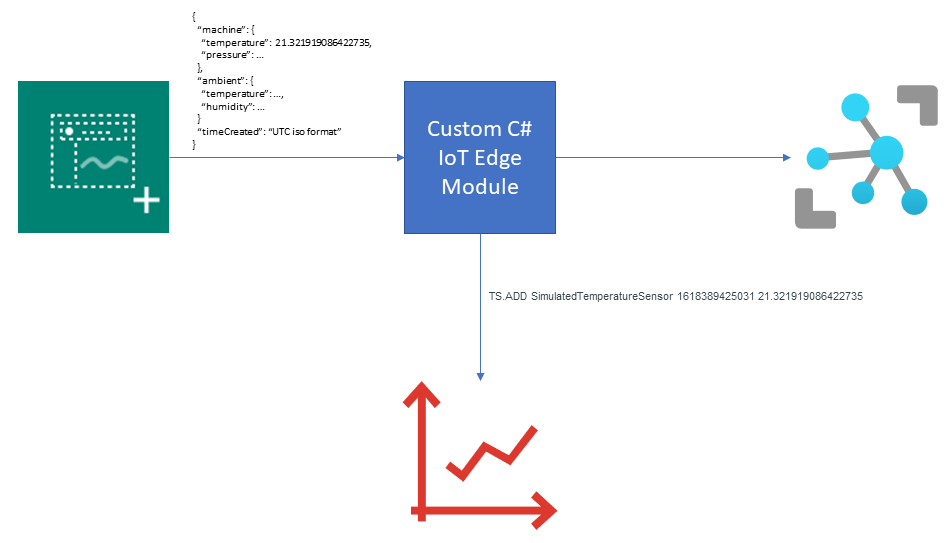
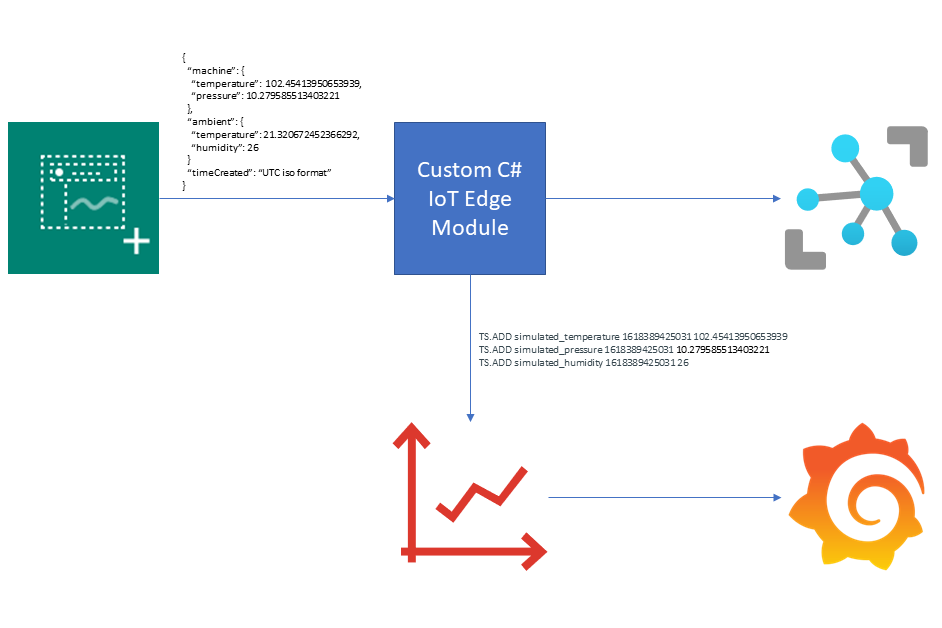
Add Grafana dashboards

Changed region(s): [[0.0, 0.0295, 0.9236, 0.7072], [0.4002, 0.6777, 0.9851, 0.9724], [0.8004, 0.1473, 1.0, 0.442]]

diff --git a/README.md b/README.md
@@ -1,4 +1,15 @@
 # azure-iot-edge-redis-timeseries
-This sample Azure IoT Edge module demonstrates how to store sensor data in RedisTimeSeries. The [Simulated Temperature Sensor](https://azuremarketplace.microsoft.com/en-us/marketplace/apps/azure-iot.simulated-temperature-sensor?tab=overview) edge module is used to generate temperature readings. These readings are then routed to our custom C# module that stores them in [RedisTimeSeries](https://oss.redislabs.com/redistimeseries/).
+This sample Azure IoT Edge solution demonstrates how to store sensor timeseries data in RedisTimeSeries. The [Simulated Temperature Sensor](https://azuremarketplace.microsoft.com/en-us/marketplace/apps/azure-iot.simulated-temperature-sensor?tab=overview) edge module is used to generate temperature, pressure and humidity readings. These readings are then routed to our custom C# edge module which stores them in [RedisTimeSeries](https://oss.redislabs.com/redistimeseries/).
+
+The custom edge module also provides an [Azure IoT Hub Direct Method](https://docs.microsoft.com/en-us/azure/iot-hub/iot-hub-devguide-direct-methods) named `GetTimeSeriesInfo`. This method can be used to retrieve statistics about the stored data in RedisTimeSeries.
 
 <div style=""><img src="images/dataflow.png"/></center></div>
+
+## Grafana Dashboards
+Simulated TimeSeries dashboard was created using the [Redis Data Source for Grafana
+](https://github.com/RedisGrafana/grafana-redis-datasource).
+<div style=""><img src="images/timeseries_dashboard.png"/></center></div>
+
+Redis usage dashboard was created using the [Prometheus Redis Metrics Exporter.
+](https://github.com/oliver006/redis_exporter)
+<div style=""><img src="images/redis_dashboard.png"/></center></div>
